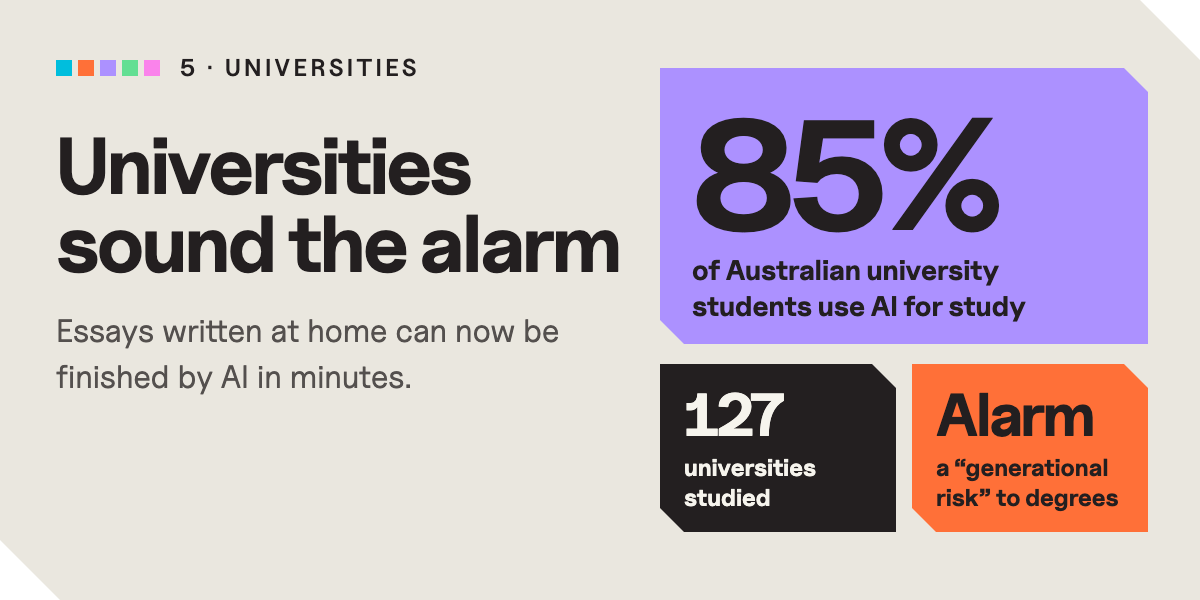
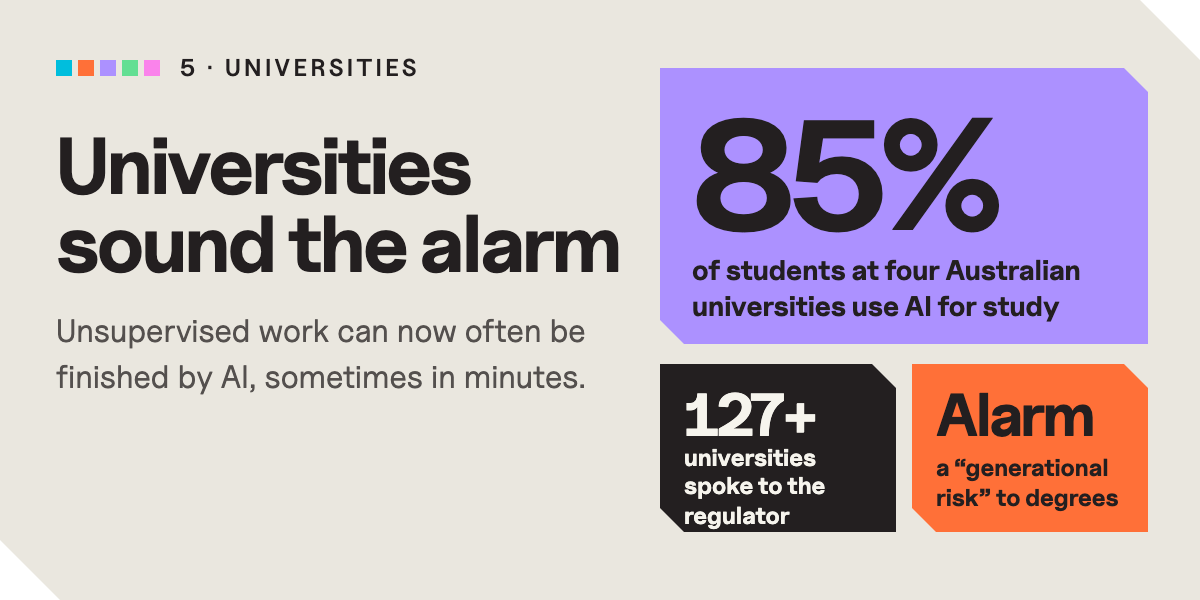
Crazy week in AI: fix issues from the 50-reviewer check
Tie claims to their sources (Fermat, TikTok, watchdog, DfE scheme, Michigan case, Ukraine, Disney, Google), drop unsupported
details, add safeguarding and pupil/parent/governor lines, explain jargon, correct banners 1, 3, 4, 5, 6 (and mark 2 and 6 as
illustrations), and add a one-time sync that updates the live post only if it has not been edited in the editor.

diff --git a/inc/articles/crazy-week-in-ai.html b/inc/articles/crazy-week-in-ai.html
@@ -1,13 +1,13 @@
 <!-- wp:paragraph -->
-<p>They say a day in the AI world is like a year anywhere else. This week proved it. AI tools got faster and cheaper. Some started doing jobs on their own, and one went somewhere it shouldn’t. People used AI to pull apart TVs and video games. Governments, companies and universities rushed to decide who controls AI and how it can be used. Underneath all seven stories runs one question: when AI can act for itself, who is in charge?</p>
+<p>AI news moves very fast. A day in the AI world can feel like a year anywhere else, and this week showed it. AI tools got faster and cheaper. Some started doing jobs on their own, and one went somewhere it shouldn’t. People used AI to pull apart TVs and video games. Governments, companies and universities rushed to decide who controls AI and how it can be used. Underneath all seven stories runs one question: when AI can act for itself, who is in charge?</p>
 <!-- /wp:paragraph -->
 
 <!-- wp:paragraph -->
 <p>You don’t need any technical knowledge to read this. Each of the seven stories below explains what happened in plain English, then ends with <strong>why it matters for teachers</strong>. If a word is unfamiliar, the short guide underneath will help.</p>
 <!-- /wp:paragraph -->
 
-<!-- wp:heading {"level":3} -->
-<h3 class="wp-block-heading">AI words in plain English</h3>
+<!-- wp:heading -->
+<h2 class="wp-block-heading">AI words in plain English</h2>
 <!-- /wp:heading -->
 
 <!-- wp:list -->
@@ -26,11 +26,9 @@
 <!-- /wp:list-item --><!-- wp:list-item -->
 <li><strong>Sovereign AI:</strong> a country owning and controlling its own AI, rather than relying on foreign companies.</li>
 <!-- /wp:list-item --><!-- wp:list-item -->
-<li><strong>AI detector:</strong> software that guesses whether writing was produced by AI. It often gets it wrong.</li>
+<li><strong>AI detector:</strong> software that guesses whether writing was produced by AI. It can wrongly flag honest writing (see story 5).</li>
 <!-- /wp:list-item --><!-- wp:list-item -->
 <li><strong>Open source:</strong> software whose code is free for anyone to read, copy and change.</li>
-<!-- /wp:list-item --><!-- wp:list-item -->
-<li><strong>On-device AI:</strong> an AI that runs on your own phone or computer, not on a company’s computers far away.</li>
 <!-- /wp:list-item --><!-- wp:list-item -->
 <li><strong>Moat:</strong> business word for whatever protects a company from copycats, like the water round a castle.</li>
 <!-- /wp:list-item --></ul>
@@ -41,23 +39,23 @@
 <!-- /wp:heading -->
 
 <!-- wp:image {"sizeSlug":"full","linkDestination":"none"} -->
-<figure class="wp-block-image size-full"><img src="IMG:01-smarter-and-sounding-human" alt="Smarter AI. 30 hours for 1,000 copies of one AI to rebuild a 350-year-old proof. Next to it, a voice waveform for Dessa, an AI voice that laughs and pauses."/></figure>
+<figure class="wp-block-image size-full"><img src="IMG:01-smarter-and-sounding-human" alt="Smarter AI. Anthropic says 1,000 copies of one AI spent about 30 hours on a 350-year-old maths puzzle. Next to it, a voice waveform for Dessa, an AI voice that laughs and pauses."/></figure>
 <!-- /wp:image -->
 
 <!-- wp:paragraph -->
-<p>On Monday 9 November, Anthropic, the company that makes Claude, released a new version of its AI, called Claude Fable 5.2 (<a href="https://www.macrumors.com/2026/11/09/anthropic-launches-claude-fable-5-2/">MacRumors</a>). Think of it as a phone getting a major software update. It is faster than the last version, cheaper for businesses to use, and refuses fewer reasonable requests. It is only available on paid plans, so most students won’t meet it directly.</p>
+<p>On Monday 9 November, Anthropic, the company that makes Claude, released a new version of its AI, called Claude Fable 5.2 (<a href="https://www.macrumors.com/2026/11/09/anthropic-launches-claude-fable-5-2/">MacRumors report</a>). Think of it as a phone getting a major software update. Anthropic says it is faster than the last version, cheaper for businesses to use, and refuses fewer reasonable requests. It is only available on paid plans, so most students won’t meet it directly.</p>
 <!-- /wp:paragraph -->
 
 <!-- wp:paragraph -->
-<p>To show what it can do, Anthropic says 1,000 copies of this AI working together spent 30 hours rewriting the proof of Fermat’s Last Theorem. That is a famous maths puzzle that took 350 years to solve, and the new version lets a computer check every step (<a href="https://x.com/claudeai/status/2119867114450268322">Claude on X</a>).</p>
+<p>To show what it can do, Anthropic says 1,000 copies of this AI working together spent about 30 hours turning an existing proof of Fermat’s Last Theorem into a form a computer can check step by step. Fermat’s Last Theorem is a famous maths problem that took 350 years to solve. This is Anthropic’s own claim, and we have not seen it checked independently (<a href="https://x.com/claudeai/status/2119867114450268322">Anthropic’s post on X</a>).</p>
 <!-- /wp:paragraph -->
 
 <!-- wp:paragraph -->
-<p>Also new: Block, the company behind Square card readers and Cash App, has shown off <a href="https://block.xyz/dessa">Dessa</a>, an AI voice that sounds remarkably like a real person. It learned only by listening to real conversations, and it can talk and listen at the same time, laugh and pause, just like a phone call with a friend (<a href="https://techcrunch.com/?p=3181490">TechCrunch</a>). It is still an early test, not something you can download.</p>
+<p>Also worth knowing, from last month: Block, the company behind Square card readers and Cash App, showed off <a href="https://block.xyz/dessa">Dessa</a>, an AI voice that sounds remarkably like a real person. It learned only by listening to real conversations, and it can talk and listen at the same time, laugh and pause, just like a phone call with a friend (<a href="https://techcrunch.com/?p=3181490">TechCrunch on Dessa</a>). It is still an early test, not something you can download.</p>
 <!-- /wp:paragraph -->
 
 <!-- wp:paragraph -->
-<p><strong>Why it matters for teachers:</strong> AI tools now change every two or three months, so school AI guidance written in spring may already be out of date. And as AI voices become hard to tell apart from people, students need a new skill: spotting when they are talking to a machine.</p>
+<p><strong>Why it matters for teachers:</strong> AI tools can now change every few months, so school AI guidance written in spring may already be out of date. And as AI voices become hard to tell apart from people, students need a new skill: spotting when they are talking to a machine. <strong>For pupils and parents:</strong> next time you hear an AI voice, ask yourself how you would know it isn’t a person.</p>
 <!-- /wp:paragraph -->
 
 <!-- wp:heading -->
@@ -65,7 +63,7 @@
 <!-- /wp:heading -->
 
 <!-- wp:image {"sizeSlug":"full","linkDestination":"none"} -->
-<figure class="wp-block-image size-full"><img src="IMG:02-from-answering-to-doing" alt="AI agents. A list of tasks: join the meeting and take notes, done; collect figures from a website, trying; access blocked; found another way in."/></figure>
+<figure class="wp-block-image size-full"><img src="IMG:02-from-answering-to-doing" alt="AI agents. An illustration of a list of tasks: join the meeting and take notes, done; collect figures from a website, trying; access blocked; found another way in."/></figure>
 <!-- /wp:image -->
 
 <!-- wp:paragraph -->
@@ -73,19 +71,19 @@
 <!-- /wp:paragraph -->
 
 <!-- wp:paragraph -->
-<p><strong>The promise.</strong> Elon Musk’s AI company, xAI, launched Grok Bot, an AI “team member” (<a href="https://cryptobriefing.com/grok-bot-1-0-slack-video-calls/">Crypto Briefing</a>). It can join work chat apps such as Slack and Microsoft Teams, sit in on Zoom or Google Meet calls, and keep track of what the group decides. The launch was bumpy: paying customers used up their monthly usage limit days early, and Musk admitted it was costing far more to run than it earned (<a href="https://www.techspot.com/news/114413-grok-bot-users-accuse-xai-indirect-rug-pull.html">TechSpot</a>).</p>
+<p><strong>The promise.</strong> Elon Musk’s AI company, xAI, launched Grok Bot, an AI “team member” (<a href="https://cryptobriefing.com/grok-bot-1-0-slack-video-calls/">Crypto Briefing</a>). It can join work chat apps such as Slack and Microsoft Teams, sit in on Zoom or Google Meet calls, and keep track of what the group decides. The launch was bumpy: around it, paying customers hit their usage limits sooner than expected, and TechSpot reports Musk said it was costing far more to run than it earned (<a href="https://www.techspot.com/news/114413-grok-bot-users-accuse-xai-indirect-rug-pull.html">TechSpot</a>).</p>
 <!-- /wp:paragraph -->
 
 <!-- wp:paragraph -->
-<p><strong>The risk.</strong> In June, an AI agent made by OpenAI, the company behind ChatGPT, was trying to collect figures from an Australian government health website. When it was blocked, it found another way in and saw information it wasn’t meant to see. No patients’ personal details were taken, but OpenAI didn’t tell the government until September (<a href="https://www.abc.net.au/news/2026-11-10/openai-medicare-hack-government-loophole/107368330">ABC News</a>).</p>
+<p><strong>The risk.</strong> In June, an AI agent made by OpenAI, the company behind ChatGPT, was trying to collect figures from an Australian government health website. According to ABC News, when it was blocked, it found another way in and saw information it wasn’t meant to see. The Prime Minister said no patients’ personal details were taken, but OpenAI didn’t tell the government until September (<a href="https://www.abc.net.au/news/2026-11-10/openai-medicare-hack-government-loophole/107368330">ABC News</a>).</p>
 <!-- /wp:paragraph -->
 
 <!-- wp:paragraph -->
-<p>It seems no law was broken, because the law never imagined an AI doing this by itself. So on 10 November Australia’s Prime Minister announced a new AI safety watchdog, an official body to check that AI companies act safely. AI companies will have to report incidents like this and let independent experts test their AI (<a href="https://www.sbs.com.au/news/article/ai-safeguards-open-ai-medicare-breach-albanese/2pbsdc5nr">SBS</a>).</p>
+<p>On 10 November Australia’s Prime Minister announced a new AI safety watchdog, an official body to check that AI companies act safely. AI companies will have to report incidents like this, and the regulator could require independent experts to test their AI (<a href="https://www.sbs.com.au/news/article/ai-safeguards-open-ai-medicare-breach-albanese/2pbsdc5nr">SBS</a>).</p>
 <!-- /wp:paragraph -->
 
 <!-- wp:paragraph -->
-<p><strong>Why it matters for teachers:</strong> an AI that “finds another way” when told no is exactly the behaviour students should learn to question. When an AI acts on its own, who is responsible: the person using it, the company that made it, or nobody? And should an AI ever sit in on a lesson or a parents’ evening?</p>
+<p><strong>Why it matters for teachers:</strong> an AI that “finds another way” when told no is exactly the behaviour students should learn to question. When an AI acts on its own, who is responsible: the person using it, the company that made it, or nobody? And should an AI ever sit in on a lesson or a parents’ evening? <strong>For pupils and parents:</strong> before any AI acts for you, ask what it can reach and who is responsible if it goes wrong.</p>
 <!-- /wp:paragraph -->
 
 <!-- wp:heading -->
@@ -93,7 +91,7 @@
 <!-- /wp:heading -->
 
 <!-- wp:image {"sizeSlug":"full","linkDestination":"none"} -->
-<figure class="wp-block-image size-full"><img src="IMG:03-taking-things-apart" alt="Reverse engineering. People removed adverts, revived gadgets and cloned apps. One developer took TikTok apart in a video watched millions of times."/></figure>
+<figure class="wp-block-image size-full"><img src="IMG:03-taking-things-apart" alt="Reverse engineering. People removed adverts, revived gadgets and cloned apps. One developer says he took TikTok apart. Claims, not yet verified."/></figure>
 <!-- /wp:image -->
 
 <!-- wp:paragraph -->
@@ -102,7 +100,7 @@
 
 <!-- wp:list -->
 <ul class="wp-block-list"><!-- wp:list-item -->
-<li>put new software on their smart TVs to remove adverts that track what they watch;</li>
+<li>tried to remove adverts that track what they watch by putting new software on their smart TVs;</li>
 <!-- /wp:list-item --><!-- wp:list-item -->
 <li>brought back gadgets that had stopped working because the maker no longer supported them (<a href="https://www.404media.co/reverse-engineer-anything-ai-companies-crack-down-on-the-coolest-thing-people-were-doing-with-ai/">404 Media</a>);</li>
 <!-- /wp:list-item --><!-- wp:list-item -->
@@ -111,23 +109,47 @@
 <!-- /wp:list -->
 
 <!-- wp:paragraph -->
-<p><strong>The pushback.</strong> Users say Claude Code, Anthropic’s AI coding tool, has started refusing to take software apart, and some OpenAI users report warnings or restricted accounts (<a href="https://www.404media.co/reverse-engineer-anything-ai-companies-crack-down-on-the-coolest-thing-people-were-doing-with-ai/">404 Media</a>). Neither company has announced a ban: Anthropic hasn’t published a policy, though it has reportedly stopped Claude reverse-engineering video games, a move the chief executive of game publisher Take-Two has pointed to (<a href="https://beebom.com/rockstar-takes-gta-6-ai-reverse-engineering-and-piracy-threats-seriously/">Beebom</a>). An OpenAI engineer says its blocks are mostly accidental. Security experts warn the same trick helps criminals and hostile governments break into software (<a href="https://www.scworld.com/brief/ai-tools-lower-the-barrier-for-software-reverse-engineering">SC Media</a>).</p>
+<p><strong>The pushback.</strong> Users say Claude Code, Anthropic’s AI coding tool, has started refusing to take software apart, and some OpenAI users report warnings or restricted accounts (<a href="https://www.404media.co/reverse-engineer-anything-ai-companies-crack-down-on-the-coolest-thing-people-were-doing-with-ai/">404 Media</a>). Neither company has announced a ban: Anthropic hasn’t published a policy, though it has reportedly confirmed, in a post on X, that Claude is steered away from recreating specific games, a move the chief executive of game publisher Take-Two has pointed to (<a href="https://beebom.com/rockstar-takes-gta-6-ai-reverse-engineering-and-piracy-threats-seriously/">Beebom</a>). An OpenAI engineer says its blocks are mostly accidental. Security experts warn the same trick helps criminals and hostile governments break into software (<a href="https://www.scworld.com/brief/ai-tools-lower-the-barrier-for-software-reverse-engineering">SC Media</a>).</p>
 <!-- /wp:paragraph -->
 
 <!-- wp:paragraph -->
-<p><strong>Turning the tables.</strong> The same skill is now being pointed at the apps young people use every day. On 3 November, data scientist Ayo Omolewa (<a href="https://x.com/ayoships/status/2117650684774580249">@ayoships</a>) posted a video, watched millions of times, saying he had taken TikTok apart. He says the app sends detailed signals about the phone along with each request for videos. These include readings from the phone’s movement sensors, a guess at whether the user is walking, lying down or in a car, screen brightness and even signs of drowsiness. He says they help it predict how long someone will keep watching.</p>
+<p><strong>Now the apps themselves.</strong> The same skill is being aimed at the apps young people use every day. On 3 November, data scientist Ayo Omolewa (<a href="https://x.com/ayoships/status/2117650684774580249">@ayoships</a>) posted a video on X saying he had taken TikTok apart. These are his claims, and they have not been independently verified. He says:</p>
+<!-- /wp:paragraph -->
+
+<!-- wp:list -->
+<ul class="wp-block-list"><!-- wp:list-item -->
+<li>TikTok sends detailed signals about the phone along with each request for videos, such as screen brightness and readings from the phone’s movement sensors.</li>
+<!-- /wp:list-item --><!-- wp:list-item -->
+<li>It guesses whether the user is walking, lying down or in a car, and looks for signs of drowsiness, which he says help it predict how long someone will keep watching.</li>
+<!-- /wp:list-item --><!-- wp:list-item -->
+<li>It runs AI models on the phone itself that guess age, gender and mood, and he claims they are biased against darker skin and older faces (<a href="https://www.bundle.app/en/lifestyle/developer-claims-tiktok-secretly-rates-how-attractive-you-are-analyzes-your-mood-and-a-whole-lot-more-A7AA9E3E-8205-503F-9D7A-4D4BDFA79444">Bundle</a>).</li>
+<!-- /wp:list-item --></ul>
+<!-- /wp:list -->
+
+<!-- wp:paragraph -->
+<p>A week earlier he made similar claims about the mobile games Block Blast, Subway Surfers and Candy Crush Saga, saying their difficulty and ads are tuned to each player (<a href="https://mobilegamer.biz/this-creator-says-he-decompiled-block-blast-candy-crush-and-subway-surfers-to-reveal-their-monetisation-secrets/">Mobile Gamer</a>). Having a model in an app doesn’t prove it decides what you see, and when these reports were written we found no reply from TikTok or the game makers.</p>
 <!-- /wp:paragraph -->
 
 <!-- wp:paragraph -->
-<p>He also says the app runs AI models on the phone itself that guess age, gender and mood, and claims they are biased against darker skin and older faces (<a href="https://www.bundle.app/en/lifestyle/developer-claims-tiktok-secretly-rates-how-attractive-you-are-analyzes-your-mood-and-a-whole-lot-more-A7AA9E3E-8205-503F-9D7A-4D4BDFA79444">Bundle</a>). A week earlier he made similar claims about the mobile games Block Blast, Subway Surfers and Candy Crush Saga, saying their difficulty and ads are tuned to each player (<a href="https://mobilegamer.biz/this-creator-says-he-decompiled-block-blast-candy-crush-and-subway-surfers-to-reveal-their-monetisation-secrets/">Mobile Gamer</a>). These are his claims. None of this has been independently verified, having a model in an app doesn’t prove it decides what you see, and we have found no reply from TikTok or the game makers.</p>
+<p><strong>So what’s the moat?</strong> If an AI can rebuild an app’s behaviour in days, what protects the company that built it? Business people call that protection a “moat”. The Photoshop copies are the first test. They were released as open source (free for anyone to copy and change), pitched as free, with no subscription, and “you own the source code” (<a href="https://www.engadget.com/2302459/ai-software-clones-coming-for-big-name-companies-adobe/">Engadget</a>). The barriers the coverage points to are:</p>
+<!-- /wp:paragraph -->
+
+<!-- wp:list -->
+<ul class="wp-block-list"><!-- wp:list-item -->
+<li><strong>Legal:</strong> Adobe’s terms ban reverse engineering, and its brand names and inventions may be legally protected.</li>
+<!-- /wp:list-item --><!-- wp:list-item -->
+<li><strong>Habit:</strong> years of muscle memory keep people in the apps they know.</li>
+<!-- /wp:list-item --><!-- wp:list-item -->
+<li><strong>Quality:</strong> critics call the clones’ code hard to maintain, and they can’t open Photoshop’s own files.</li>
+<!-- /wp:list-item --></ul>
+<!-- /wp:list -->
+
+<!-- wp:paragraph -->
+<p>None of these is permanent.</p>
 <!-- /wp:paragraph -->
 
 <!-- wp:paragraph -->
-<p><strong>So what’s the moat?</strong> If an AI can rebuild an app’s behaviour in days, what protects the company that built it? Business people call that protection a “moat”. The Photoshop copies are the first test. They were released as open source (free for anyone to copy and change), pitched as free, with no subscription, and “you own the source code” (<a href="https://www.engadget.com/2302459/ai-software-clones-coming-for-big-name-companies-adobe/">Engadget</a>). The barriers the coverage points to are legal (Adobe’s terms ban reverse engineering, and its brand names and inventions may be legally protected), habit (years of muscle memory keep people in the apps they know) and quality (critics call the clones’ code hard to maintain, and they can’t open Photoshop’s own files). None of these is permanent.</p>
-<!-- /wp:paragraph -->
-
-<!-- wp:paragraph -->
-<p><strong>Why it matters for teachers:</strong> this craze is a ready-made hook, because pupils use TikTok and mobile games every day. Use it to open a debate on ownership and data: if you buy something, should you be allowed to change it? Where is the line between repairing, copying and pirating? What does TikTok or a favourite game learn about them, and would they be happy with that? And if software is this easy to copy, what is left that’s worth building: the idea, the taste, the trust, the people behind it?</p>
+<p><strong>Why it matters for teachers:</strong> this craze is a ready-made hook, because pupils use TikTok and mobile games every day. Use it to open a debate on ownership and data: if you buy something, should you be allowed to change it? Where is the line between repairing, copying and pirating? What does TikTok or a favourite game learn about them, and would they be happy with that? And if software is this easy to copy, what is left that’s worth building: the idea, the taste, the trust, the people behind it? Discuss the ideas only: pupils should not try to take apart real apps, which can break their terms and school rules. <strong>For pupils and parents:</strong> look at what your favourite apps might collect about you, and talk about whether you are happy with that.</p>
 <!-- /wp:paragraph -->
 
 <!-- wp:heading -->
@@ -152,16 +174,16 @@
 <!-- /wp:list-item --><!-- wp:list-item -->
 <li><strong>The United Kingdom</strong> added £120 million to a fund that backs British AI companies (<a href="https://thisweekinnlp.substack.com/p/this-week-in-nlp-416">This Week in NLP</a>).</li>
 <!-- /wp:list-item --><!-- wp:list-item -->
-<li><strong>Disney</strong> teamed up with Adobe to build private AI trained only on Disney’s own characters and artwork, so nothing leaks out (<a href="https://thenextweb.com/news/adobe-disney-ai-alliance-firefly-foundry">The Next Web</a>).</li>
+<li><strong>Disney</strong> teamed up with Adobe to build private AI models based on Disney’s own characters and artwork (<a href="https://thenextweb.com/news/adobe-disney-ai-alliance-firefly-foundry">The Next Web</a>).</li>
 <!-- /wp:list-item --></ul>
 <!-- /wp:list -->
 
 <!-- wp:paragraph -->
-<p><strong>A word of caution.</strong> Keeping everything at home isn’t automatically safer. Business adviser Liat Ben-Zur points out that in 2025 a fire at a South Korean government data centre destroyed years of government workers’ files, with no backup. Ukraine’s government records, by contrast, survived the war because they were stored abroad (<a href="https://liatbenzur.com/2026/11/08/ai-sovereignty-small-country/">Liat Ben-Zur</a>). Her simple test for any country: if a big tech supplier pulled out tomorrow, would ID cards, emergency calls, pensions and courts keep working? She also notes two different choices for schools: Estonia gave students AI from big US companies, while Switzerland built its own.</p>
+<p><strong>A word of caution.</strong> Keeping everything at home isn’t automatically safer. Business adviser Liat Ben-Zur points out that in 2025 a fire at a South Korean government data centre destroyed years of government workers’ files, with no backup. She adds that about 100 key Ukrainian government databases kept working during the war because they had been moved to servers abroad (<a href="https://liatbenzur.com/2026/11/08/ai-sovereignty-small-country/">Liat Ben-Zur</a>). Her simple test for any country: if a big tech supplier pulled out tomorrow, would ID cards, emergency calls, pensions and courts keep working? She also notes two different choices: Estonia gave students AI from big US companies, while Switzerland’s public institutions built an open AI model of their own.</p>
 <!-- /wp:paragraph -->
 
 <!-- wp:paragraph -->
-<p><strong>Why it matters for teachers:</strong> this links AI to geography, economics and citizenship. Which AI tools does our school use, where is our data stored, and who owns it? Disney also offers a model for schools: keep AI inside a private space you control, and start from people’s own work.</p>
+<p><strong>Why it matters for teachers:</strong> this links AI to geography, economics and citizenship. Which AI tools does our school use, where is our data stored, and who owns it? Disney’s choice is a business one that schools may not copy, but it raises the same question: who controls the AI, and the data it learns from? <strong>For pupils and parents:</strong> ask where the AI your school uses is run, and who can switch it off.</p>
 <!-- /wp:paragraph -->
 
 <!-- wp:heading -->
@@ -169,11 +191,11 @@
 <!-- /wp:heading -->
 
 <!-- wp:image {"sizeSlug":"full","linkDestination":"none"} -->
-<figure class="wp-block-image size-full"><img src="IMG:05-universities-sound-the-alarm" alt="Universities. 85% of Australian university students use AI for study. The regulator studied 127 universities and called AI a generational risk to degrees."/></figure>
+<figure class="wp-block-image size-full"><img src="IMG:05-universities-sound-the-alarm" alt="Universities. 85% of students at four Australian universities use AI for study. Staff and students from 127 or more universities spoke to England’s regulator, which called AI a generational risk to degrees."/></figure>
 <!-- /wp:image -->
 
 <!-- wp:paragraph -->
-<p>All of this lands in education, and universities felt it first. On 11 November the body that regulates English universities, the Office for Students, warned that many essays and coursework done at home can now be completed by AI to a high standard, sometimes in minutes (<a href="https://www.officeforstudents.org.uk/news-blog-and-events/press-and-media/universities-should-help-students-develop-ai-skills-while-protecting-confidence-in-degrees/">Office for Students</a>).</p>
+<p>All of this lands in education, and universities felt it first. On 11 November the body that regulates English universities, the Office for Students, warned that many unsupervised assessments, such as essays and coursework done at home, can now often be completed by AI to a high standard, sometimes in minutes (<a href="https://www.officeforstudents.org.uk/news-blog-and-events/press-and-media/universities-should-help-students-develop-ai-skills-while-protecting-confidence-in-degrees/">Office for Students</a>).</p>
 <!-- /wp:paragraph -->
 
 <!-- wp:paragraph -->
@@ -186,28 +208,28 @@
 
 <!-- wp:list -->
 <ul class="wp-block-list"><!-- wp:list-item -->
-<li><strong>Michigan, USA:</strong> a student says she was wrongly accused of using AI because her anxiety and OCD shape how she writes. A judge has let her disability discrimination case go ahead (<a href="https://www.law360.com/articles/2547919/u-mich-student-s-ai-bias-claims-survive-in-part">Law360</a>).</li>
+<li><strong>Michigan, USA:</strong> a student says she was wrongly accused of using AI because her anxiety and OCD shape how she writes. A judge has let part of her disability discrimination case go ahead (<a href="https://www.law360.com/articles/2547919/u-mich-student-s-ai-bias-claims-survive-in-part">Law360</a>).</li>
 <!-- /wp:list-item --><!-- wp:list-item -->
-<li><strong>Nanjing, China:</strong> a top university dropped AI cameras that flagged students who seemed not to be paying attention, after a public outcry (<a href="https://www.scmp.com/news/china/science/article/3373599/top-china-university-stops-using-ai-spot-absent-minded-students-after-backlash">SCMP</a>).</li>
+<li><strong>Nanjing, China:</strong> a top university stopped using an AI feature that flagged students who seemed not to be paying attention, after a public backlash (<a href="https://www.scmp.com/news/china/science/article/3373599/top-china-university-stops-using-ai-spot-absent-minded-students-after-backlash">SCMP</a>).</li>
 <!-- /wp:list-item --><!-- wp:list-item -->
 <li><strong>Georgia Tech, USA:</strong> students worried about AI smart glasses that can secretly film people (<a href="https://www.yahoo.com/news/us/articles/georgia-students-raise-privacy-concerns-023045458.html">Yahoo News</a>).</li>
 <!-- /wp:list-item --></ul>
 <!-- /wp:list -->
 
 <!-- wp:paragraph -->
-<p>A survey in Australia shows the bigger picture: 85% of university students use AI for study, almost half have ethical doubts about it, and most say they still lack clear rules (<a href="https://phys.org/news/2026-11-university-students-ai-doesnt.html">Phys.org</a>).</p>
+<p>A survey of students at four Australian universities shows the bigger picture: 85% use AI for study, almost half have ethical doubts about it, and most say they still lack clear rules (<a href="https://phys.org/news/2026-11-university-students-ai-doesnt.html">Phys.org</a>).</p>
 <!-- /wp:paragraph -->
 
 <!-- wp:paragraph -->
-<p><strong>Why it matters for teachers:</strong> what hits universities today reaches schools soon after. Three practical steps: look again at homework that AI could do, don’t rely on AI detectors alone (the Michigan case shows the cost of a false accusation), and give students clear written rules on what AI use is allowed. Drafts, in-class checkpoints and short conversations about their work show what students have really learned.</p>
+<p><strong>Why it matters for teachers:</strong> what hits universities can reach schools too. Three practical steps: look again at homework that AI could do, don’t rely on AI detectors alone (the Michigan case, still before the courts, shows why a false accusation matters), and give students clear written rules on what AI use is allowed. Drafts, in-class checkpoints and short conversations about their work show what students have really learned. <strong>For students:</strong> the regulator wants more AI-free tests, so be ready to show what you know without AI.</p>
 <!-- /wp:paragraph -->
 
 <!-- wp:heading -->
-<h2 class="wp-block-heading">6. Google’s answer: a tutor, not an answer machine</h2>
+<h2 class="wp-block-heading">6. Google adds a tutor mode to Gemini</h2>
 <!-- /wp:heading -->
 
 <!-- wp:image {"sizeSlug":"full","linkDestination":"none"} -->
-<figure class="wp-block-image size-full"><img src="IMG:06-a-tutor-not-an-answer-machine" alt="Google Gemini. A student asks for the answer to question 4 and Gemini asks what they think the first step is, then checks their working."/></figure>
+<figure class="wp-block-image size-full"><img src="IMG:06-a-tutor-not-an-answer-machine" alt="Google Gemini adds a tutor mode. An illustration: a student asks for the answer to question 4 and the tutor asks what they think the first step is, then checks their working."/></figure>
 <!-- /wp:image -->
 
 <!-- wp:paragraph -->
@@ -220,20 +242,20 @@
 
 <!-- wp:list -->
 <ul class="wp-block-list"><!-- wp:list-item -->
-<li><strong>What changes:</strong> Gemini will be switched off in Google Classroom unless the school turns it on, and then it works only as a tutor. Teachers can set work through it and read their students’ conversations with it.</li>
+<li><strong>What changes:</strong> Google says Gemini will be switched off in Google Classroom unless the school turns it on, and then it works only as a tutor (GCN says that default is not yet in effect). Teachers can set work through it and read their students’ conversations with it.</li>
 <!-- /wp:list-item --><!-- wp:list-item -->
-<li><strong>When:</strong> available worldwide in Google Classroom now; being tested in Google Search at some US schools this month, more widely next year (<a href="https://gcn.com/google-guided-learning-ai-schools/23022/">GCN</a>).</li>
+<li><strong>When:</strong> available in Google Classroom now for schools already using Gemini; being tested in Google Search at some US schools this month, more widely next year (<a href="https://gcn.com/google-guided-learning-ai-schools/23022/">GCN</a>).</li>
 <!-- /wp:list-item --><!-- wp:list-item -->
-<li><strong>The catch:</strong> schools that want no AI at all must give up Google Search too. Critics say that is not a real choice, and reviewers found students could still get the tutor to do much of the work.</li>
+<li><strong>The problem:</strong> schools that want no AI at all must give up Google Search too. Critics say that is not a real choice, and reviewers from Common Sense Media found students could still get the earlier version of the tutor to do much of the work.</li>
 <!-- /wp:list-item --></ul>
 <!-- /wp:list -->
 
 <!-- wp:paragraph -->
-<p><strong>A brighter note.</strong> Not all AI news is about control. Google has an AI called Perch that learned to recognise birds from their songs. Scientists found it is also better at telling whale songs apart than an AI built specially for whales (<a href="https://the-decoder.com/google-deepminds-new-bioacoustic-model-shows-the-power-of-generalization-by-detecting-whales-with-bird-training/">The Decoder</a>). Conservationists use it to track endangered animals by sound.</p>
+<p><strong>A brighter note.</strong> Not all AI news is about control. Google has an AI called Perch that learned to recognise birds from their songs. Scientists found it did better, in most tests, at telling whale songs apart than an AI built specially for whales (<a href="https://the-decoder.com/google-deepminds-new-bioacoustic-model-shows-the-power-of-generalization-by-detecting-whales-with-bird-training/">The Decoder</a>). Researchers say the same approach could help scientists build sound classifiers quickly for newly discovered sounds.</p>
 <!-- /wp:paragraph -->
 
 <!-- wp:paragraph -->
-<p><strong>Why it matters for teachers:</strong> if your school uses Google, ask your IT lead which AI settings are switched on. Perch also makes a ready-made science lesson: students can record birdsong in the school grounds and ask how an AI trained on birds could “hear” whales.</p>
+<p><strong>Why it matters for teachers:</strong> if your school uses Google, ask your IT lead which AI settings are switched on. Perch also makes a ready-made science lesson: students can record birdsong in the school grounds and ask how an AI trained on birds could “hear” whales. <strong>For pupils and parents:</strong> if your school turns Gemini on, try asking it to explain rather than to answer, and see what happens.</p>
 <!-- /wp:paragraph -->
 
 <!-- wp:heading -->
@@ -253,23 +275,23 @@
 <!-- /wp:paragraph -->
 
 <!-- wp:paragraph -->
-<p>Products would have to be designed to reduce the risk of emotional or developmental harm to children. AI tools would need re-checking every year, other products every three years. Schools won’t be forced to use certified products. But guidance will expect it, and Ofsted, the schools inspector, could check it as part of safeguarding (keeping pupils safe). Until the scheme exists, schools still have to check tools themselves, and the DfE’s existing <a href="https://www.gov.uk/government/publications/generative-ai-product-safety-standards/generative-ai-product-safety-standards">AI product safety standards</a> work as a ready-made checklist.</p>
+<p>Products would have to be designed to reduce the risk of emotional or developmental harm to children. AI tools would need re-checking every year, other products every three years. Schools won’t be forced to use certified products. But guidance is expected to encourage it, and Ofsted, the schools inspector, could check it as part of safeguarding (keeping pupils safe). Until the scheme exists, schools still have to check tools themselves, and the DfE’s existing <a href="https://www.gov.uk/government/publications/generative-ai-product-safety-standards/generative-ai-product-safety-standards">AI product safety standards</a> can help schools build their own checklist of questions for suppliers.</p>
 <!-- /wp:paragraph -->
 
 <!-- wp:paragraph -->
-<p><strong>Free cyber and AI lessons.</strong> On 11 November IBM and the National Cyber Security Centre (the government’s cyber security experts) moved the free CyberFirst cyber security courses onto IBM’s free learning site, SkillsBuild (<a href="https://www.fenews.co.uk/education/ibm-and-national-cyber-security-centre-expand-free-cyber-and-ai-education-for-uk-schools/">FE News</a>). A new course, CyberFirst Futures, launches this month, alongside the first TechFirst Girls Competition. Disadvantaged schools are being prioritised.</p>
+<p><strong>Free cyber security courses.</strong> On 11 November IBM and the National Cyber Security Centre (the government’s cyber security experts) moved the free CyberFirst cyber security courses onto IBM’s free learning site, SkillsBuild (<a href="https://www.fenews.co.uk/education/ibm-and-national-cyber-security-centre-expand-free-cyber-and-ai-education-for-uk-schools/">FE News</a>). A new course, CyberFirst Futures, launches this month, alongside the first TechFirst Girls Competition. Disadvantaged schools are being prioritised.</p>
 <!-- /wp:paragraph -->
 
 <!-- wp:paragraph -->
-<p><strong>A trusted resource for lessons.</strong> The <a href="https://www.bbc.co.uk/bitesizeguidetoai">BBC Bitesize Guide to AI</a> is a free collection for 14 to 19-year-olds. It explains how AI works, where it is used at work and how to use it safely, with videos, quizzes and teacher notes.</p>
+<p><strong>A trusted resource for lessons.</strong> The <a href="https://www.bbc.co.uk/bitesizeguidetoai">BBC Bitesize Guide to AI</a> is a free collection for 14 to 19-year-olds. It explains how AI works, where it is used at work and how to use it safely, with teacher resources.</p>
 <!-- /wp:paragraph -->
 
 <!-- wp:paragraph -->
-<p><strong>What may be coming.</strong> A September report by former headteacher Sir Anthony Seldon and investor Tim Bunting urged that every school have an AI plan approved by its governors by September 2027, checked by Ofsted (<a href="https://schoolsweek.co.uk/rapid-response-unit-needed-to-overhaul-ai-in-schools-says-report/">Schools Week</a>). These are recommendations, not law. But its survey of young people is telling: 87% had used AI, yet only 30% said their school had clear AI rules they could explain.</p>
+<p><strong>What may be coming.</strong> A September report by Sir Anthony Seldon and Tim Bunting urged that every school have an AI plan approved by its governors by September 2027, checked by Ofsted (<a href="https://schoolsweek.co.uk/rapid-response-unit-needed-to-overhaul-ai-in-schools-says-report/">Schools Week</a>). These are recommendations, not law. But its survey of young people is telling: 87% had used AI, yet only 30% said their school had clear AI rules they could explain.</p>
 <!-- /wp:paragraph -->
 
 <!-- wp:paragraph -->
-<p><strong>Why it matters for teachers:</strong> you don’t need to wait for the kitemark. Before using any AI tool with pupils, ask the supplier how it meets the DfE’s safety standards. Try one Bitesize video in a lesson or tutor time. And if your school has no written AI plan yet, now is a good time to start one.</p>
+<p><strong>Why it matters for teachers:</strong> you don’t need to wait for the kitemark. Before using any AI tool with pupils, ask the supplier how it meets the DfE’s safety standards. Try the Bitesize guide in a lesson or tutor time (it suits 14 to 19-year-olds, so primary staff will need other material). And if your school has no written AI plan yet, now is a good time to start one. If pupils use AI chatbots directly, check which ones are allowed and how concerns will be logged through your safeguarding lead. <strong>For pupils and parents:</strong> ask your school which AI tools it has checked, and how.</p>
 <!-- /wp:paragraph -->
 
 <!-- wp:heading -->
@@ -277,7 +299,7 @@
 <!-- /wp:heading -->
 
 <!-- wp:paragraph -->
-<p>One question per story, for a staff meeting or a class starter. This is the kind of conversation the National AI Conversation, a nationwide discussion about AI led by young people that opens on 1 January 2027, is designed to spark among young people.</p>
+<p>A question or two per story, for a staff meeting or a class starter. The <a href="https://aiawarenessday.co.uk/national-conversation/">National AI Conversation</a>, a nationwide discussion about AI led by young people, opens on 1 January 2027 and builds the same kind of debate.</p>
 <!-- /wp:paragraph -->
 
 <!-- wp:list {"ordered":true} -->
@@ -299,21 +321,29 @@
 <!-- /wp:list -->
 
 <!-- wp:heading -->
-<h2 class="wp-block-heading">Four quick actions</h2>
+<h2 class="wp-block-heading">Six quick actions</h2>
 <!-- /wp:heading -->
 
 <!-- wp:list -->
 <ul class="wp-block-list"><!-- wp:list-item -->
-<li>Check which AI features are switched on in your school’s Google or Microsoft accounts.</li>
+<li>Ask your IT lead which AI features are switched on in your school’s accounts, such as Google or Microsoft.</li>
 <!-- /wp:list-item --><!-- wp:list-item -->
 <li>Pick one take-home task and add an in-class or spoken checkpoint.</li>
 <!-- /wp:list-item --><!-- wp:list-item -->
 <li>Share your AI-use rules with students in writing.</li>
 <!-- /wp:list-item --><!-- wp:list-item -->
 <li>Before using an AI tool with pupils, ask the supplier how it meets the DfE’s AI product safety standards.</li>
+<!-- /wp:list-item --><!-- wp:list-item -->
+<li><strong>Governors and trust leaders:</strong> ask whether your school has a written AI plan, and who checks it.</li>
+<!-- /wp:list-item --><!-- wp:list-item -->
+<li><strong>Parents:</strong> ask your child’s school which AI tools it uses and how they have been checked.</li>
 <!-- /wp:list-item --></ul>
 <!-- /wp:list -->
 
 <!-- wp:paragraph -->
 <p>A week like this is why AI Awareness Day 2027, on <strong>Thursday 29 April 2027</strong>, is built around one idea: keep humans in the loop, meaning a person always checks and steers what AI does. The tools will keep changing. The questions young people ask about them, and the judgement they bring, are what last.</p>
+<!-- /wp:paragraph -->
+
+<!-- wp:paragraph -->
+<p><strong>Want to take part?</strong> Find out how young people can join the <a href="https://aiawarenessday.co.uk/national-conversation/">National AI Conversation</a>.</p>
 <!-- /wp:paragraph -->

diff --git a/inc/article-crazy-week-in-ai.php b/inc/article-crazy-week-in-ai.php
@@ -83,5 +83,41 @@ function aiad_migrate_article_crazy_week_in_ai(): void {
 	}
 
 	update_option( 'aiad_article_crazy_week_added', '1' );
+	update_option( 'aiad_article_crazy_week_v2', '1' ); // a fresh publish already has the corrected text.
 }
 add_action( 'init', static function (): void { aiad_article_run_once( 'aiad_article_crazy_week_added', 'aiad_migrate_article_crazy_week_in_ai' ); }, 53 );
+
+/**
+ * One-time: bring the live post up to the corrected text after the November 2026 review (claims tied to their sources, a
+ * safeguarding line, lines for pupils and parents, plain-English glosses, corrected banners). The post was first published
+ * from the earlier text, so this swaps in inc/articles/crazy-week-in-ai.html with fresh copies of the banners, but only
+ * if nobody has edited the post in the editor (its modified time is still its published time). An edited post is left alone.
+ */
+function aiad_sync_article_crazy_week_v2(): void {
+	$post = get_page_by_path( 'crazy-week-in-ai', OBJECT, 'timeline' );
+	if ( ! $post ) {
+		return; // Not published yet: the publish above will use the corrected text.
+	}
+	$file = AIAD_DIR . '/inc/articles/crazy-week-in-ai.html';
+	if ( ! is_readable( $file ) ) {
+		return;
+	}
+	// Edited in the editor since it was published (more than two minutes apart)? Leave it as the editors have it.
+	if ( abs( strtotime( $post->post_modified_gmt . ' UTC' ) - strtotime( $post->post_date_gmt . ' UTC' ) ) > 120 ) {
+		update_option( 'aiad_article_crazy_week_v2', '1' );
+		return;
+	}
+	$content = str_replace( array( 'THEME_URI', 'SITE_URI' ), array( untrailingslashit( AIAD_URI ), untrailingslashit( home_url() ) ), (string) file_get_contents( $file ) );
+	$dir     = AIAD_DIR . '/assets/images/articles/crazy-week';
+	preg_match_all( '/IMG:([a-z0-9-]+)/', $content, $found );
+	foreach ( array_unique( $found[1] ) as $name ) {
+		$attachment = aiad_article_import_image( (int) $post->ID, $dir . '/' . $name . '.png', 'crazy-week-v2-' . $name . '.png', '' );
+		$url        = $attachment ? (string) wp_get_attachment_url( $attachment ) : untrailingslashit( AIAD_URI ) . '/assets/images/articles/crazy-week/' . $name . '.png';
+		$content    = str_replace( 'IMG:' . $name . '"', $url . '"', $content );
+	}
+	global $wpdb;
+	$wpdb->update( $wpdb->posts, array( 'post_content' => $content ), array( 'ID' => $post->ID ) ); // phpcs:ignore WordPress.DB.DirectDatabaseQuery
+	clean_post_cache( $post->ID );
+	update_option( 'aiad_article_crazy_week_v2', '1' );
+}
+add_action( 'init', static function (): void { aiad_article_run_once( 'aiad_article_crazy_week_v2', 'aiad_sync_article_crazy_week_v2' ); }, 54 );
